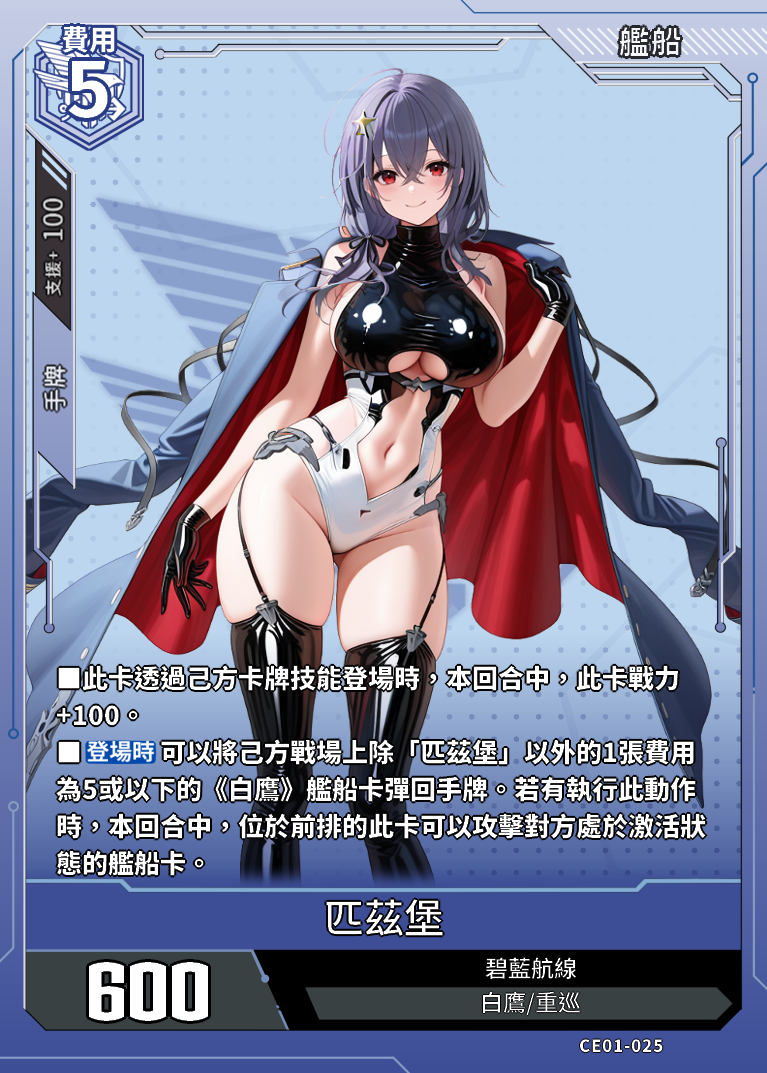
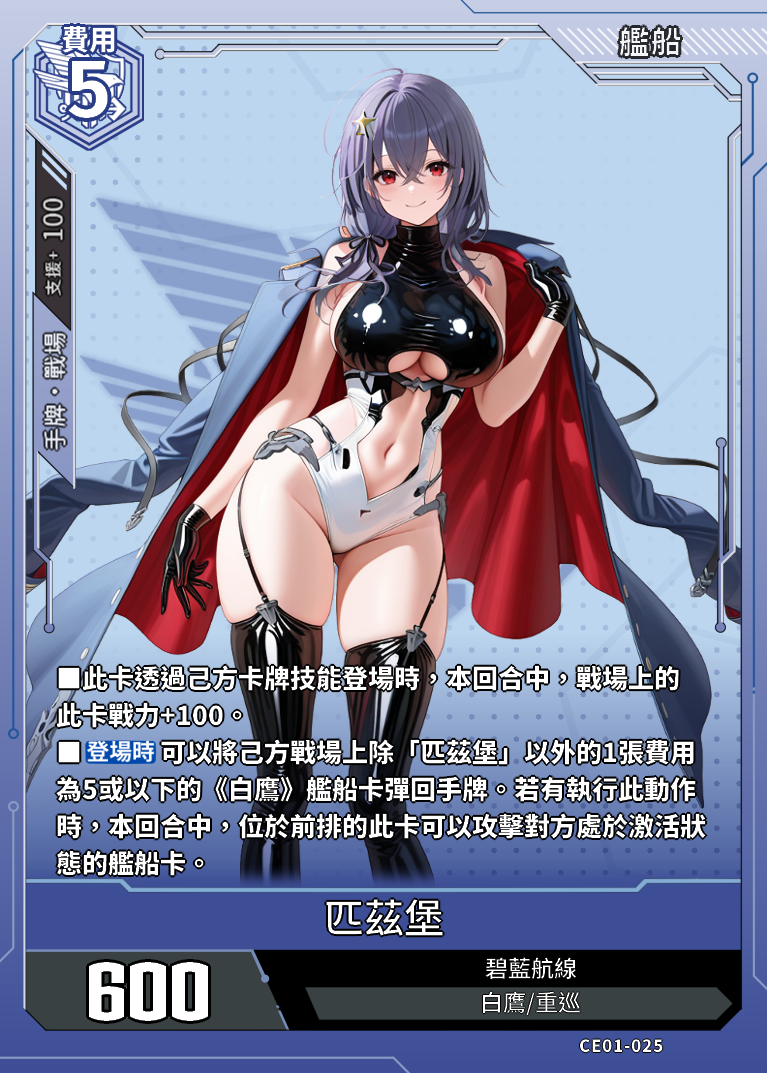
修正匹茲堡文本

Changed region(s): [[0.06, 0.6459, 0.3299, 0.6766], [0.03, 0.3075, 0.09, 0.4306], [0.7497, 0.6151, 0.8996, 0.6459]]

diff --git a/data.js b/data.js
@@ -22322,7 +22322,7 @@ const cards = [
             "支援範圍": "手牌",
             "支援值": "100"
         },
-        "card_effect": "■此卡透過己方卡牌技能登場時，本回合中，此卡戰力+100。■【登場時】可以將己方戰場上除「匹茲堡」以外的1張費用為5或以下的《白鷹》艦船卡彈回手牌。若有執行此動作時，本回合中，位於前排的此卡可以攻擊對方處於激活狀態的艦船卡。",
+        "card_effect": "■此卡透過己方卡牌技能登場時，本回合中，戰場上的此卡戰力+100。■【登場時】可以將己方戰場上除「匹茲堡」以外的1張費用為5或以下的《白鷹》艦船卡彈回手牌。若有執行此動作時，本回合中，位於前排的此卡可以攻擊對方處於激活狀態的艦船卡。",
         "acquisition_method": "CE01"
     },
 	{
